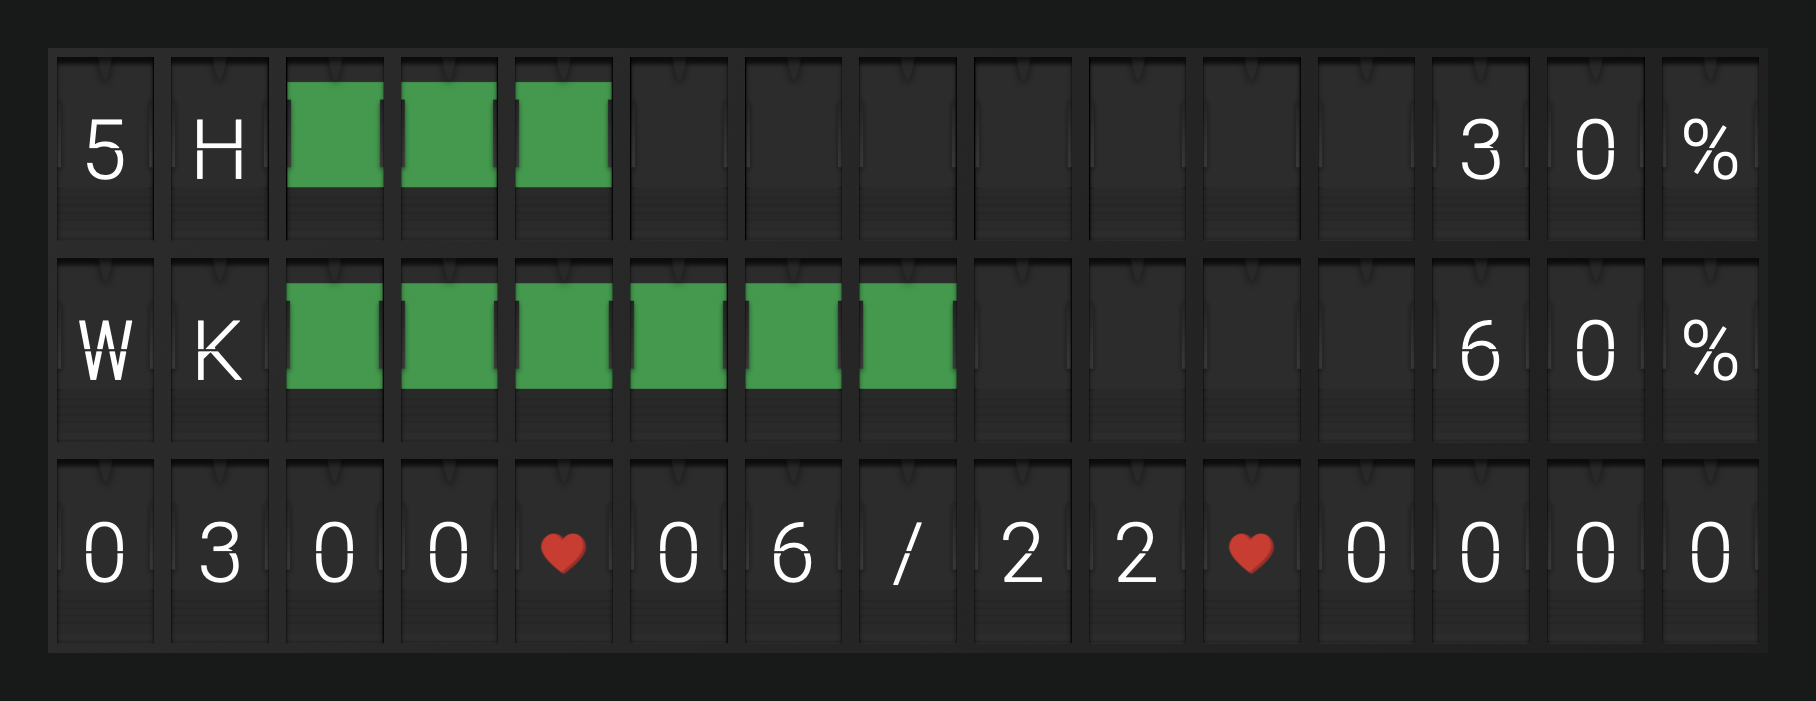
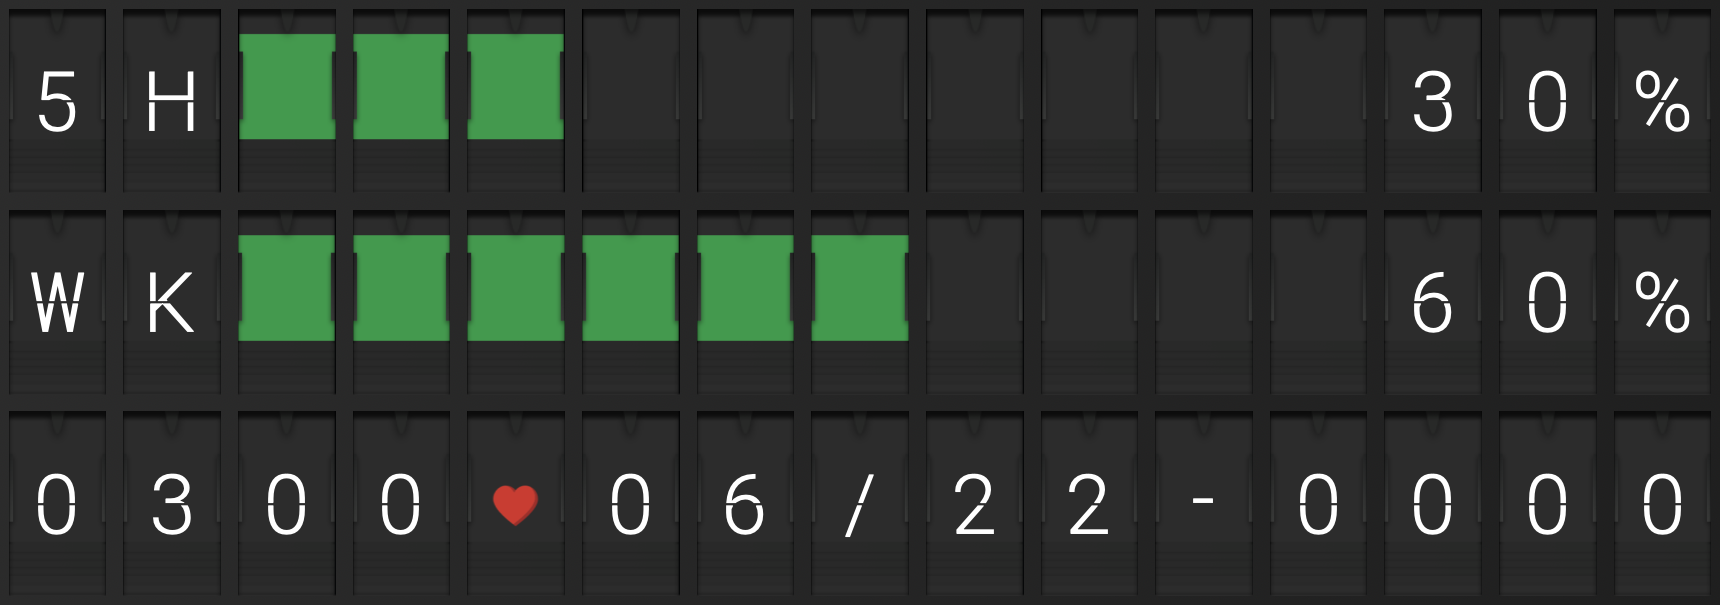
Update Codex quota note screenshots

diff --git a/test/codexQuota.test.ts b/test/codexQuota.test.ts
@@ -59,9 +59,9 @@ test("renders partial quota when only the five-hour window is present", () => {
 
   assert.ok(snapshot.fiveHour);
   assert.equal(snapshot.weekly, undefined);
-  assert.equal(message.text, "5HGGGGGGGG  80%\nWK          --%\n0244♥--/--♥----");
+  assert.equal(message.text, "5HGGGGGGGG  80%\nWK          --%\n0244♥--/-------");
   assert.deepEqual(message.characters?.[1], [23, 11, 0, 0, 0, 0, 0, 0, 0, 0, 0, 0, 44, 44, 54]);
-  assert.deepEqual(message.characters?.[2], [36, 28, 30, 30, 62, 44, 44, 59, 44, 44, 62, 44, 44, 44, 44]);
+  assert.deepEqual(message.characters?.[2], [36, 28, 30, 30, 62, 44, 44, 59, 44, 44, 44, 44, 44, 44, 44]);
 });
 
 test("renders remaining quota as green Vestaboard Note character codes", () => {
@@ -146,8 +146,8 @@ test("does not render reset time for unused quota windows", () => {
     { timeZone: "America/Los_Angeles", now: new Date("2026-06-18T21:44:00-07:00") }
   );
 
-  assert.equal(message.text.split("\n")[2], "----♥--/--♥----");
-  assert.deepEqual(message.characters?.[2], [44, 44, 44, 44, 62, 44, 44, 59, 44, 44, 62, 44, 44, 44, 44]);
+  assert.equal(message.text.split("\n")[2], "----♥--/-------");
+  assert.deepEqual(message.characters?.[2], [44, 44, 44, 44, 62, 44, 44, 59, 44, 44, 44, 44, 44, 44, 44]);
 });
 
 test("renders reset time only for the used five-hour quota window", () => {
@@ -159,7 +159,7 @@ test("renders reset time only for the used five-hour quota window", () => {
     { timeZone: "America/Los_Angeles", now: new Date("2026-06-18T21:44:00-07:00") }
   );
 
-  assert.equal(message.text.split("\n")[2], "0244♥--/--♥----");
+  assert.equal(message.text.split("\n")[2], "0244♥--/-------");
 });
 
 test("renders reset date and time only for the used weekly quota window", () => {
@@ -171,7 +171,7 @@ test("renders reset date and time only for the used weekly quota window", () => 
     { timeZone: "America/Los_Angeles", now: new Date("2026-06-18T21:44:00-07:00") }
   );
 
-  assert.equal(message.text.split("\n")[2], "----♥06/24♥1419");
+  assert.equal(message.text.split("\n")[2], "----♥06/24-1419");
 });
 
 test("renders red blocks when quota remaining is behind time remaining", () => {
@@ -191,7 +191,7 @@ test("renders red blocks when quota remaining is behind time remaining", () => {
     { timeZone: "America/Los_Angeles", now: new Date("2026-06-19T00:00:00-07:00") }
   );
 
-  assert.equal(message.text, "5HGGGRRR    30%\nWKGGGGBB    60%\n0300♥06/22♥0000");
+  assert.equal(message.text, "5HGGGRRR    30%\nWKGGGGBB    60%\n0300♥06/22-0000");
   assert.deepEqual(message.characters?.[0], [31, 8, 66, 66, 66, 63, 63, 63, 0, 0, 0, 0, 29, 36, 54]);
 });
 
@@ -233,7 +233,7 @@ test("renders only green quota blocks when pacing is hidden", () => {
     { timeZone: "America/Los_Angeles", now: new Date("2026-06-19T00:00:00-07:00"), showPacing: false, staleRows: ["WK"] }
   );
 
-  assert.equal(message.text, "5HGGG       30%\nWKGGGGGG    60%\n0300♥06/22♥0000");
+  assert.equal(message.text, "5HGGG       30%\nWKGGGGGG    60%\n0300♥06/22-0000");
   assert.deepEqual(message.characters?.[0], [31, 8, 66, 66, 66, 0, 0, 0, 0, 0, 0, 0, 29, 36, 54]);
   assert.equal(message.text.includes("?"), false);
   assert.equal(message.characters?.flat().includes(63), false);
@@ -509,7 +509,7 @@ test("codex plugin retains ping status-message messages until expiration", async
   assert.equal(first.message.text.split("\n")[2], "PING GPT5.4MINI");
   assert.equal(retained.message.text.split("\n")[2], "PING GPT5.4MINI");
   assert.deepEqual(first.message.characters?.[2], [16, 9, 14, 7, 0, 7, 16, 20, 31, 56, 30, 13, 9, 14, 9]);
-  assert.equal(expired.message.text.split("\n")[2], "0244♥06/24♥1419");
+  assert.equal(expired.message.text.split("\n")[2], "0244♥06/24-1419");
   assert.equal(first.priority, "high");
   assert.equal(retained.priority, "high");
   assert.equal(expired.priority, "normal");
@@ -711,7 +711,7 @@ test("codex plugin expires reset available after a later fetch omits reset credi
   assert.equal(retained.priority, "high");
   assert.equal(retained.message.text.split("\n")[2], "RESET AVAILABLE");
   assert.equal(second.priority, "normal");
-  assert.equal(second.message.text.split("\n")[2], "0244♥06/24♥1419");
+  assert.equal(second.message.text.split("\n")[2], "0244♥06/24-1419");
 });
 
 test("codex plugin keeps stacked refresh message above reset available until it expires", async () => {
@@ -785,7 +785,7 @@ test("codex plugin does not show reset available when weekly quota remains", asy
   const update = await plugin.getUpdate();
 
   assert.equal(update.priority, "normal");
-  assert.equal(update.message.text.split("\n")[2], "0244♥06/24♥1419");
+  assert.equal(update.message.text.split("\n")[2], "0244♥06/24-1419");
 });
 
 test("codex plugin returns low-priority error message when quota read fails", async () => {
@@ -946,7 +946,7 @@ test("codex plugin expires transient error status after the next successful read
 
   assert.equal(error.message.text.split("\n")[2], "TIMEOUT        ");
   assert.equal(retained.message.text.split("\n")[2], "TIMEOUT        ");
-  assert.equal(expired.message.text.split("\n")[2], "0244♥06/24♥1419");
+  assert.equal(expired.message.text.split("\n")[2], "0244♥06/24-1419");
   assert.equal(error.priority, "high");
   assert.equal(retained.priority, "high");
   assert.equal(expired.priority, "normal");
@@ -1005,7 +1005,7 @@ test("orchestrator asks each plugin for priority and message in one call", async
   });
 
   assert.equal(reads, 1);
-  assert.equal(sent[0]?.text.includes("0244♥06/24♥1419"), true);
+  assert.equal(sent[0]?.text.includes("0244♥06/24-1419"), true);
 });
 
 test("orchestrator accepts numeric priority strings", async () => {

diff --git a/src/plugins/codexQuota/display.ts b/src/plugins/codexQuota/display.ts
@@ -47,21 +47,21 @@ export function formatQuota(
     staleRows?: QuotaRowName[];
     showPacing?: boolean;
     board?: VestaboardBoard;
-  } | string = {}
+  } = {}
 ): VestaboardMessage {
-  const timeZone = typeof options === "string" ? options : options.timeZone;
-  const now = typeof options === "string" ? new Date() : (options.now ?? new Date());
-  const staleRows = typeof options === "string" ? [] : (options.staleRows ?? []);
-  const showPacing = typeof options === "string" ? true : (options.showPacing ?? true);
-  const board = typeof options === "string" ? "note" : (options.board ?? "note");
+  const timeZone = options.timeZone;
+  const now = options.now ?? new Date();
+  const staleRows = options.staleRows ?? [];
+  const showPacing = options.showPacing ?? true;
+  const board = options.board ?? "note";
 
   if (board === "flagship") {
-    return formatFlagshipQuota(snapshot, { timeZone, now, statusMessage: typeof options === "string" ? undefined : options.statusMessage, staleRows, showPacing });
+    return formatFlagshipQuota(snapshot, { timeZone, now, statusMessage: options.statusMessage, staleRows, showPacing });
   }
 
   const fiveHour = noteQuotaLine("5H", snapshot.fiveHour, now, staleRows.includes("5H"), showPacing);
   const weekly = noteQuotaLine("WK", snapshot.weekly, now, staleRows.includes("WK"), showPacing);
-  const reset = typeof options === "string" || !options.statusMessage
+  const reset = !options.statusMessage
     ? resetLine(snapshot.fiveHour, snapshot.weekly, timeZone)
     : statusLine(options.statusMessage);
 
@@ -266,7 +266,7 @@ function resetLine(fiveHour: QuotaWindow | undefined, weekly: QuotaWindow | unde
   const fiveHourReset = shouldShowReset(fiveHour) ? hhmm(fiveHour.resetAt, timeZone) : "----";
   const weeklyDate = shouldShowReset(weekly) ? mmdd(weekly.resetAt, timeZone) : "--/--";
   const weeklyTime = shouldShowReset(weekly) ? hhmm(weekly.resetAt, timeZone) : "----";
-  return `${fiveHourReset}♥${weeklyDate}♥${weeklyTime}`;
+  return `${fiveHourReset}♥${weeklyDate}-${weeklyTime}`;
 }
 
 function shouldShowReset(window: QuotaWindow | undefined): window is QuotaWindow {

diff --git a/.codex/skills/vestaboard-safari-screenshots/scripts/crop_vestaboard_board.py b/.codex/skills/vestaboard-safari-screenshots/scripts/crop_vestaboard_board.py
@@ -1,0 +1,138 @@
+#!/usr/bin/env python3
+
+from __future__ import annotations
+
+import argparse
+from pathlib import Path
+
+from PIL import Image
+
+
+def parse_rect(value: str) -> tuple[int, int, int, int]:
+    parts = [int(part.strip()) for part in value.split(",")]
+    if len(parts) != 4:
+        raise argparse.ArgumentTypeError("rectangle must be x0,y0,x1,y1")
+    x0, y0, x1, y1 = parts
+    if x1 <= x0 or y1 <= y0:
+        raise argparse.ArgumentTypeError("rectangle must have positive width and height")
+    return x0, y0, x1, y1
+
+
+def is_board_pixel(pixel: tuple[int, int, int]) -> bool:
+    r, g, b = pixel
+    luminance = (r + g + b) / 3
+    saturation = max(pixel) - min(pixel)
+    return luminance >= 28 or saturation > 30
+
+
+def is_message_pixel(pixel: tuple[int, int, int]) -> bool:
+    r, g, b = pixel
+    luminance = (r + g + b) / 3
+    saturation = max(pixel) - min(pixel)
+    return luminance > 135 or saturation > 45
+
+
+def projection_bounds(
+    image: Image.Image,
+    rough: tuple[int, int, int, int],
+    span: tuple[int, int],
+    axis: str,
+    threshold: int,
+) -> tuple[int, int]:
+    x0, y0, x1, y1 = rough
+    active: list[int] = []
+    if axis == "x":
+        yy0, yy1 = span
+        for x in range(x0, x1):
+            count = 0
+            for y in range(yy0, yy1):
+                if is_board_pixel(image.getpixel((x, y))):
+                    count += 1
+            if count > threshold:
+                active.append(x)
+    else:
+        xx0, xx1 = span
+        for y in range(y0, y1):
+            count = 0
+            for x in range(xx0, xx1):
+                if is_board_pixel(image.getpixel((x, y))):
+                    count += 1
+            if count > threshold:
+                active.append(y)
+
+    if not active:
+        raise SystemExit(f"Could not detect active board projection on {axis} axis")
+    return min(active), max(active) + 1
+
+
+def content_bounds(image: Image.Image, rough: tuple[int, int, int, int]) -> tuple[int, int, int, int]:
+    x0, y0, x1, y1 = rough
+    xs: list[int] = []
+    ys: list[int] = []
+    for y in range(y0, y1):
+        for x in range(x0, x1):
+            if is_message_pixel(image.getpixel((x, y))):
+                xs.append(x)
+                ys.append(y)
+    if not xs:
+        raise SystemExit("Could not find message pixels inside rough rectangle")
+    return min(xs), min(ys), max(xs) + 1, max(ys) + 1
+
+
+def detect_board(
+    image: Image.Image,
+    rough: tuple[int, int, int, int],
+    rows: int,
+    cols: int,
+) -> tuple[int, int, int, int]:
+    x0, y0, x1, y1 = rough
+    cx0, cy0, cx1, cy1 = content_bounds(image, rough)
+    x_pad = max(80, (cx1 - cx0) // cols)
+    y_pad = max(60, (cy1 - cy0) // rows)
+    x_span = (max(x0, cx0 - x_pad), min(x1, cx1 + x_pad))
+    y_span = (max(y0, cy0 - y_pad), min(y1, cy1 + y_pad))
+
+    x_threshold = max(5, (y_span[1] - y_span[0]) // 20)
+    y_threshold = max(5, (x_span[1] - x_span[0]) // 20)
+    bx0, bx1 = projection_bounds(image, rough, y_span, "x", x_threshold)
+    by0, by1 = projection_bounds(image, rough, x_span, "y", y_threshold)
+
+    width = bx1 - bx0
+    height = by1 - by0
+    if width <= 0 or height <= 0:
+        raise SystemExit("Detected board rectangle has non-positive size")
+
+    tile_w = width / cols
+    tile_h = height / rows
+    if tile_w < 20 or tile_h < 20:
+        raise SystemExit(f"Detected tiles are implausibly small: {tile_w:.2f}x{tile_h:.2f}")
+
+    aspect = tile_w / tile_h
+    if not 0.45 <= aspect <= 1.2:
+        raise SystemExit(
+            f"Detected grid has implausible tile aspect {aspect:.3f} "
+            f"for {cols}x{rows} board from {width}x{height}"
+        )
+
+    return bx0, by0, bx1, by1
+
+
+def main() -> None:
+    parser = argparse.ArgumentParser(description="Crop a Safari Vestaboard screenshot to exact board bounds.")
+    parser.add_argument("input", type=Path)
+    parser.add_argument("output", type=Path)
+    parser.add_argument("--rough", required=True, type=parse_rect, help="Loose board rectangle as x0,y0,x1,y1 in screenshot pixels")
+    parser.add_argument("--rows", required=True, type=int)
+    parser.add_argument("--cols", required=True, type=int)
+    args = parser.parse_args()
+
+    image = Image.open(args.input).convert("RGB")
+    crop = detect_board(image, args.rough, args.rows, args.cols)
+    output = image.crop(crop)
+    args.output.parent.mkdir(parents=True, exist_ok=True)
+    output.save(args.output)
+    print(f"crop={crop} size={output.size} grid={args.cols}x{args.rows} output={args.output}")
+
+
+if __name__ == "__main__":
+    main()

diff --git a/.codex/skills/vestaboard-safari-screenshots/SKILL.md b/.codex/skills/vestaboard-safari-screenshots/SKILL.md
@@ -1,0 +1,41 @@
+---
+name: vestaboard-safari-screenshots
+description: Capture pixel-precise Vestaboard web screenshots from Safari for README/docs assets, using API-sent messages, Safari duplicate/compose view, and border-based board crop validation for Note and Flagship layouts.
+---
+
+# Vestaboard Safari Screenshots
+
+Use this skill when updating README/docs screenshots of Vestaboard messages rendered on `web.vestaboard.com`, especially when the output must be a tight, high-resolution board crop.
+
+## Workflow
+
+1. Send the desired message through the Vestaboard API or project code path that the screenshot is meant to document.
+   - Do not embed API tokens in scripts or committed files.
+   - Prefer the repo formatter/client over hand-written payloads.
+   - For the README Codex quota Note examples, run `pnpm build` first, then use `scripts/send_codex_quota_note_state.mjs pacing-on|pacing-off|ping` with `VESTABOARD_TOKEN` set.
+2. Open the board History page in Safari.
+3. Click the lower-left duplicate/copy button for the target History card to open the larger compose/visual view.
+4. Capture the Safari window with `screencapture`.
+5. Crop with `scripts/crop_vestaboard_board.py`.
+   - Provide a rough rectangle around only the board area in screenshot pixels; this can be loose and should not depend on Safari window position.
+   - The script finds the exact board border from the rough region using board-pixel projections around the rendered message content.
+   - The script validates the expected grid shape before writing output.
+   - Use `--rows 3 --cols 15` for Note and `--rows 6 --cols 22` for Flagship.
+6. Verify output dimensions and visually inspect the crop before replacing docs assets.
+
+## Pixel Precision
+
+Do not hard-code Safari window position, screen size, or previously observed crop coordinates into documentation updates. Only the rough rectangle is allowed to vary per capture; exact crop bounds must be found from the board border/content in that capture.
+
+The crop is acceptable only when:
+
+- the script reports an exact crop rectangle and output size,
+- the detected rectangle contains the expected row/column grid,
+- no browser chrome, compose controls, or page background remains,
+- no board edge, tile shadow, or rendered character is clipped.
+
+## Safari Notes
+
+Safari screenshots on Retina displays are usually 2x the point coordinate space. Use the pixel dimensions reported by `sips -g pixelWidth -g pixelHeight <capture.png>` when choosing rough crop coordinates.
+
+If the rough rectangle contains too much non-board UI, tighten it around the board and rerun the script. Do not manually crop final assets by eye.

diff --git a/README.md b/README.md
@@ -55,7 +55,7 @@ The first two rows are quota windows:
 ```text
 5HGGGRRR    30%
 WKGGGGBB    60%
-0300♥06/22♥0000
+0300♥06/22-0000
 ```
 
 `G`, `R`, and `B` in dry-run output stand for Vestaboard green, red, and blue block character codes. The actual API payload sends `characters`, not plain text. Percentages are remaining quota, derived from `100 - usedPercent`. Full quota renders as `100` on Note so the row still fits, and as `100%` on Flagship where the larger usage field has room.